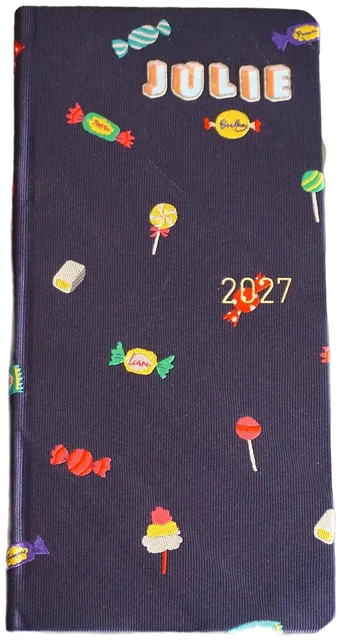
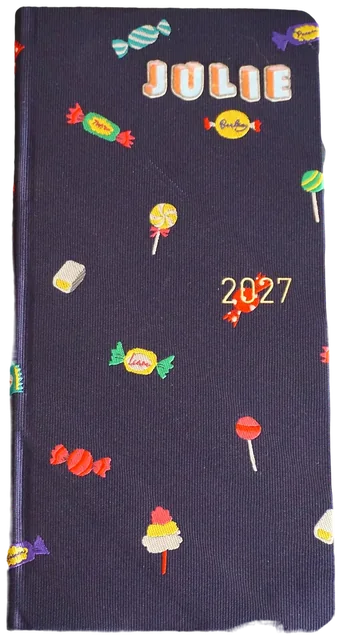
DX intro: depth of field in three tiers (far small soft slow, mid crisp, near big blurry fast and bleeding), sharp Enjoy the small things stamp, clean Hobonichi edges, dog clip, more button stamps, 'A few things about me'
Claude-Session: https://claude.ai/code/session_01DwUsKR2ugZpFM2bDqEhyVU

diff --git a/index.html b/index.html
@@ -992,24 +992,24 @@ section[data-slide-id="directive"] .qt-note { font: 400 var(--meta)/1.4 var(--fo
   .baf-tag { font-size: var(--meta); }
 }
 </style>
-<section data-pass class="slide intro-hero " data-act="Open" data-dim=".2" data-silk="ember" aria-label="I have an unhealthy obsession with collecting handmade ceramic mugs.">
-<div class="ih-depth" aria-hidden="true"><img class="ih-fl far" src="img/intro/fl/stamp-yellow-cat.webp" alt="" decoding="async" style="--x:86%;--y:16%;--w:9;--r:8deg"><img class="ih-fl far" src="img/intro/fl/tape-turtle.webp" alt="" decoding="async" style="--x:22%;--y:22%;--w:10;--r:-6deg"></div><figure class="ih-fig"><img src="img/intro/still-mug-checkered.webp" alt="" decoding="async"></figure><div class="ih-depth ih-near" aria-hidden="true"><img class="ih-fl near" src="img/intro/fl/pencil-yellow.webp" alt="" decoding="async" style="--x:75%;--y:87%;--w:20;--r:-6deg"></div>
+<section data-pass class="slide intro-hero " data-act="Open" data-dim=".2" data-silk="ember" aria-label="I have an unhealthy obsession with collecting handmade ceramic mugs."><p class="ih-head">A few things about me</p>
+<div class="ih-depth" aria-hidden="true"><img class="ih-fl far" src="img/intro/fl/DSC02252.webp" alt="" decoding="async" style="--x:20%;--y:24%;--w:6;--r:-6deg"><img class="ih-fl far" src="img/intro/fl/still-stamp-yellow-cat-01.webp" alt="" decoding="async" style="--x:88%;--y:30%;--w:5;--r:8deg"></div><figure class="ih-fig"><img src="img/intro/still-mug-checkered.webp" alt="" decoding="async"></figure><div class="ih-depth ih-near" aria-hidden="true"><img class="ih-fl mid" src="img/intro/fl/DSC02201.webp" alt="" decoding="async" style="--x:74%;--y:86%;--w:13;--r:-6deg"><img class="ih-fl mid" src="img/intro/fl/still-stamp-yellow-button-01.webp" alt="" decoding="async" style="--x:91%;--y:46%;--w:10;--r:8deg"><img class="ih-fl near" src="img/intro/fl/stamps-row-animals-yellow.webp" alt="" decoding="async" style="--x:95%;--y:9%;--w:28;--r:-12deg"></div>
 <div class="ih-cap"><p class="meta">01 · Mugs</p><p class="ih-text">I have an unhealthy obsession with collecting handmade ceramic mugs.</p></div>
 </section>
 <section data-pass class="slide intro-hero ih-left" data-act="Open" data-dim=".2" data-silk="ember" aria-label="But sipping coffee from one every day brings me so much joy.">
-<div class="ih-depth" aria-hidden="true"><img class="ih-fl far" src="img/intro/fl/ink-orange.webp" alt="" decoding="async" style="--x:14%;--y:18%;--w:9;--r:-10deg"><img class="ih-fl far" src="img/intro/fl/ink-teal.webp" alt="" decoding="async" style="--x:72%;--y:14%;--w:8;--r:6deg"></div><figure class="ih-fig"><img src="img/intro/still-mug-speckled.webp" alt="" decoding="async"></figure><div class="ih-depth ih-near" aria-hidden="true"><img class="ih-fl near" src="img/intro/fl/pencil-mini-yellow.webp" alt="" decoding="async" style="--x:49%;--y:87%;--w:13;--r:36deg"><img class="ih-fl near" src="img/intro/fl/clip-red.webp" alt="" decoding="async" style="--x:22%;--y:83%;--w:13;--r:14deg"></div>
+<div class="ih-depth" aria-hidden="true"><img class="ih-fl far" src="img/intro/fl/DSC02234.webp" alt="" decoding="async" style="--x:14%;--y:18%;--w:6;--r:-10deg"><img class="ih-fl far" src="img/intro/fl/DSC02235.webp" alt="" decoding="async" style="--x:72%;--y:12%;--w:5;--r:6deg"><img class="ih-fl far" src="img/intro/fl/DSC02200.webp" alt="" decoding="async" style="--x:50%;--y:90%;--w:7;--r:30deg"></div><figure class="ih-fig"><img src="img/intro/still-mug-speckled.webp" alt="" decoding="async"></figure><div class="ih-depth ih-near" aria-hidden="true"><img class="ih-fl mid" src="img/intro/fl/DSC02211.webp" alt="" decoding="async" style="--x:22%;--y:80%;--w:10;--r:14deg"><img class="ih-fl near" src="img/intro/fl/stamps-row-flower-cherry.webp" alt="" decoding="async" style="--x:3%;--y:46%;--w:26;--r:20deg"></div>
 <div class="ih-cap"><p class="meta">01 · Mugs</p><p class="ih-text">But sipping coffee from one every day brings me so much joy.</p></div>
 </section>
 <section data-pass class="slide intro-hero " data-act="Open" data-dim=".2" data-silk="ember" aria-label="My small daily joy is writing in my Hobonichi Techo with all my Japanese stationery.">
-<div class="ih-depth" aria-hidden="true"><img class="ih-fl far" src="img/intro/fl/pen-hobonichi.webp" alt="" decoding="async" style="--x:72%;--y:12%;--w:16;--r:-14deg"><img class="ih-fl far" src="img/intro/fl/eraser-mtfuji.webp" alt="" decoding="async" style="--x:22%;--y:24%;--w:9;--r:10deg"></div><figure class="ih-fig"><img src="img/intro/still-hobonichi-cousin-2026.webp" alt="" decoding="async" loading="lazy"></figure><div class="ih-depth ih-near" aria-hidden="true"><img class="ih-fl near" src="img/intro/fl/hobonichi-weeks-2027.webp" alt="" decoding="async" style="--x:85%;--y:50%;--w:12;--r:3deg"><img class="ih-fl near" src="img/intro/fl/pencil-penco-mint.webp" alt="" decoding="async" style="--x:68%;--y:88%;--w:18;--r:4deg"></div>
+<div class="ih-depth" aria-hidden="true"><img class="ih-fl far" src="img/intro/fl/stamps-row-travel-b.webp" alt="" decoding="async" style="--x:70%;--y:10%;--w:7;--r:70deg"><img class="ih-fl far" src="img/intro/fl/DSC02254.webp" alt="" decoding="async" style="--x:12%;--y:40%;--w:5;--r:-8deg"></div><figure class="ih-fig"><img src="img/intro/still-hobonichi-cousin-2026.webp" alt="" decoding="async" loading="lazy"></figure><div class="ih-depth ih-near" aria-hidden="true"><img class="ih-fl mid" src="img/intro/fl/hobonichi-weeks-2027.webp" alt="" decoding="async" style="--x:84%;--y:50%;--w:11;--r:3deg"><img class="ih-fl mid" src="img/intro/fl/pencil-pentel-p205-yellow.webp" alt="" decoding="async" style="--x:68%;--y:88%;--w:15;--r:-8deg"><img class="ih-fl mid" src="img/intro/fl/DSC02213.webp" alt="" decoding="async" style="--x:30%;--y:20%;--w:9;--r:10deg"><img class="ih-fl near" src="img/intro/fl/stamps-row-ghosts.webp" alt="" decoding="async" style="--x:92%;--y:84%;--w:30;--r:-30deg"><img class="ih-fl near" src="img/intro/fl/stamp-stick-green-nice.webp" alt="" decoding="async" style="--x:5%;--y:8%;--w:20;--r:35deg"></div>
 <div class="ih-cap"><p class="meta">02 · Stationery</p><p class="ih-text">My small daily joy is writing in my Hobonichi Techo with all my Japanese stationery.</p></div>
 </section>
 <section data-pass class="slide intro-hero ih-left" data-act="Open" data-dim=".2" data-silk="ember" aria-label="You’ll always see me in my cursor claw clip by Colette Bernard. I love supporting small artists so they can keep creating.">
-<div class="ih-depth" aria-hidden="true"><img class="ih-fl far" src="img/intro/fl/stamp-red-favorite-things.webp" alt="" decoding="async" style="--x:72%;--y:18%;--w:10;--r:8deg"><img class="ih-fl far" src="img/intro/fl/notebook-blue.webp" alt="" decoding="async" style="--x:15%;--y:20%;--w:13;--r:-8deg"><img class="ih-fl far" src="img/intro/fl/pen-orange.webp" alt="" decoding="async" style="--x:42%;--y:89%;--w:18;--r:-10deg"></div><figure class="ih-fig"><img src="img/intro/still-clawclip-cursor.webp" alt="" decoding="async" loading="lazy"></figure><div class="ih-depth ih-near" aria-hidden="true"><img class="ih-fl near" src="img/intro/fl/ink-blue.webp" alt="" decoding="async" style="--x:18%;--y:80%;--w:11;--r:10deg"></div>
+<div class="ih-depth" aria-hidden="true"><img class="ih-fl far" src="img/intro/fl/DSC02233.webp" alt="" decoding="async" style="--x:15%;--y:20%;--w:6;--r:-8deg"><img class="ih-fl far" src="img/intro/fl/stamp-red-favorite-things.webp" alt="" decoding="async" style="--x:86%;--y:30%;--w:6;--r:8deg"></div><figure class="ih-fig"><img src="img/intro/still-clawclip-cursor.webp" alt="" decoding="async" loading="lazy"></figure><div class="ih-depth ih-near" aria-hidden="true"><img class="ih-fl mid" src="img/intro/fl/DSC02222.webp" alt="" decoding="async" style="--x:18%;--y:76%;--w:13;--r:-8deg"><img class="ih-fl mid rim" src="img/intro/fl/still-paperclip-dog-01.webp" alt="" decoding="async" style="--x:48%;--y:14%;--w:11;--r:-6deg"><img class="ih-fl near" src="img/intro/fl/stamp-stick-blue-office.webp" alt="" decoding="async" style="--x:36%;--y:97%;--w:26;--r:80deg"></div>
 <div class="ih-cap"><p class="meta">03 · Small artists</p><p class="ih-text">You’ll always see me in my cursor claw clip by Colette Bernard. I love supporting small artists so they can keep creating.</p></div>
 </section>
 <section data-pass class="slide intro-hero ih-left" data-act="Open" data-dim=".2" data-silk="ember" aria-label="My joy is tech balanced with the tactile. I respect busy lives by giving people only what they need.">
-<div class="ih-depth" aria-hidden="true"><img class="ih-fl far" src="img/intro/fl/clock-mofusand.webp" alt="" decoding="async" style="--x:14%;--y:20%;--w:11;--r:6deg"><img class="ih-fl far" src="img/intro/fl/tamagotchi.webp" alt="" decoding="async" style="--x:66%;--y:14%;--w:9;--r:10deg"></div><figure class="ih-fig"><img src="img/intro/still-stamp-red.webp" alt="" decoding="async" loading="lazy"></figure><div class="ih-depth ih-near" aria-hidden="true"><img class="ih-fl near" src="img/intro/fl/stamp-red-hello-small-things.webp" alt="" decoding="async" style="--x:80%;--y:22%;--w:12;--r:-7deg"><img class="ih-fl near" src="img/intro/fl/airpods.webp" alt="" decoding="async" style="--x:17%;--y:77%;--w:13;--r:-8deg"><img class="ih-fl near" src="img/intro/fl/tin-green.webp" alt="" decoding="async" style="--x:47%;--y:87%;--w:15;--r:-4deg"></div>
+<div class="ih-depth" aria-hidden="true"><img class="ih-fl far" src="img/intro/fl/DSC02218.webp" alt="" decoding="async" style="--x:64%;--y:13%;--w:7;--r:10deg"><img class="ih-fl far" src="img/intro/fl/DSC02209.webp" alt="" decoding="async" style="--x:14%;--y:20%;--w:6;--r:6deg"></div><figure class="ih-fig"><img src="img/intro/still-stamp-red-enjoy.webp" alt="" decoding="async" loading="lazy"></figure><div class="ih-depth ih-near" aria-hidden="true"><img class="ih-fl mid" src="img/intro/fl/stamp-red-nice-holiday.webp" alt="" decoding="async" style="--x:82%;--y:26%;--w:10;--r:-7deg"><img class="ih-fl mid" src="img/intro/fl/DSC02226.webp" alt="" decoding="async" style="--x:47%;--y:86%;--w:12;--r:-4deg"><img class="ih-fl near" src="img/intro/fl/DSC02224.webp" alt="" decoding="async" style="--x:3%;--y:80%;--w:22;--r:-8deg"><img class="ih-fl near" src="img/intro/fl/tape-decorush.webp" alt="" decoding="async" style="--x:97%;--y:6%;--w:24;--r:20deg"></div>
 <div class="ih-cap"><p class="meta">04 · Small things</p><p class="ih-text">My joy is tech balanced with the tactile. I respect busy lives by giving people only what they need.</p></div>
 <div class="notes"><b>Talk track · voice-over only</b><ul><li>Everything we make is for people in the real world. They’re busy, so it has to give them what they need and respect their time.</li></ul></div>
 </section>
@@ -3620,13 +3620,17 @@ b, strong { font-weight: 500; }
 .intro-hero .ih-cap .meta { margin-bottom: .6em; }
 .intro-hero .ih-cap > * { opacity: var(--ih-c, 0); transform: translateY(calc((1 - var(--ih-c, 0)) * 12px)); }
 @media (max-width: 760px), (max-height: 500px) { .intro-hero .ih-fig { width: 92vw; top: 42%; } .intro-hero .ih-cap { max-width: 90vw; } .intro-hero.ih-left .ih-cap { margin-left: 0; text-align: left; } }
-/* Depth layers (11/11): real objects from the navy shoot, far ones soft and slow, near ones crisp and fast */
-.intro-hero .ih-depth { position: absolute; inset: 0; pointer-events: none; z-index: calc(var(--ck-z-media) - 1); }
+/* Depth of field (11/11 v2): three tiers where size, blur and speed move together. Far is small, soft and slow. Mid is crisp and moves with the hero. Near is big, blurry and fast, and is the only tier allowed to bleed off the frame. */
+.intro-hero .ih-depth { position: absolute; inset: 0; pointer-events: none; z-index: calc(var(--ck-z-media) - 1); overflow: hidden; }
 .intro-hero .ih-depth.ih-near { z-index: calc(var(--ck-z-media) + 1); }
 .intro-hero .ih-fl { position: absolute; left: var(--x); top: var(--y); width: min(calc(var(--w) * 1vw), calc(var(--w) * 1.55svh)); height: auto;
   transform: translate(-50%, -50%) translateY(calc(var(--ih-pv, 0px) * var(--z))) rotate(calc(var(--r) + var(--ih-pr, 0deg) * var(--z) * 8)); will-change: transform; }
-.intro-hero .ih-fl.far { --z: .10; filter: blur(2.6px) brightness(.78) saturate(.92); }
-.intro-hero .ih-fl.near { --z: -.32; filter: blur(.5px) drop-shadow(0 18px 24px rgba(0,0,0,.55)); }
+.intro-hero .ih-fl.far { --z: .12; filter: blur(3px) brightness(.72) saturate(.9); }
+.intro-hero .ih-fl.mid { --z: -.08; filter: drop-shadow(0 14px 18px rgba(0,0,0,.5)); }
+.intro-hero .ih-fl.mid.rim { filter: drop-shadow(0 0 1px rgba(255,255,255,.7)) drop-shadow(0 0 8px rgba(255,255,255,.22)) drop-shadow(0 14px 18px rgba(0,0,0,.5)); }
+.intro-hero .ih-fl.near { --z: -.45; filter: blur(8px) brightness(.9); }
+.intro-hero .ih-head { position: absolute; top: max(var(--margin), 4svh); left: 50%; transform: translateX(-50%); margin: 0; z-index: calc(var(--ck-z-media) + 2);
+  font-family: var(--font-display); font-size: clamp(18px, 1.5vw, 26px); line-height: 1.2; color: var(--mist); white-space: nowrap; opacity: var(--ih-c, 1); }
 @media (max-width: 760px), (max-height: 500px) { .intro-hero .ih-depth { display: none; } }
 @media (prefers-reduced-motion: reduce) { .intro-hero .ih-fl { transform: translate(-50%, -50%) rotate(var(--r)); } }
 html.has-intro .title-open:not(.ih-built) h1 { visibility: hidden; }
